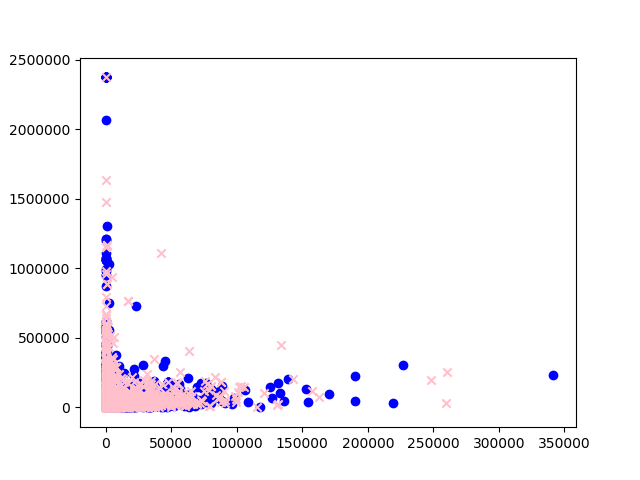
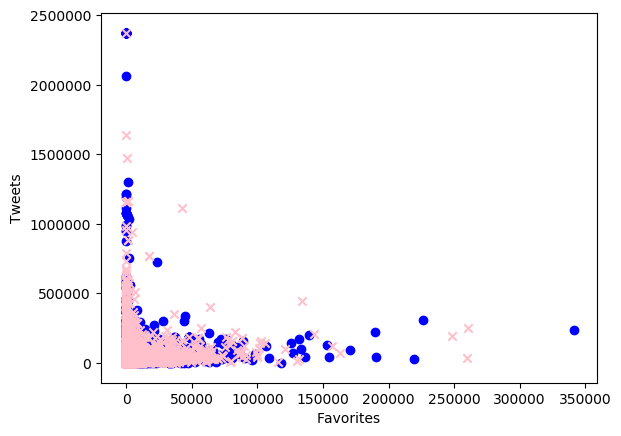
added labels to graph

diff --git a/main.py b/main.py
@@ -101,7 +101,10 @@ def plotData(dataset):
     ax.scatter(x1, x2, c='blue', marker='o', label='Male')
     ax.scatter(y1, y2, c='pink', marker='x', label='Female')
 
-    fig.savefig("graph1.png")
+    ax.set_xlabel('Favorites')
+    ax.set_ylabel('Tweets')
+
+    fig.savefig("graph1.png", bbox_inches="tight")
     print("plotData complete")
 
 
